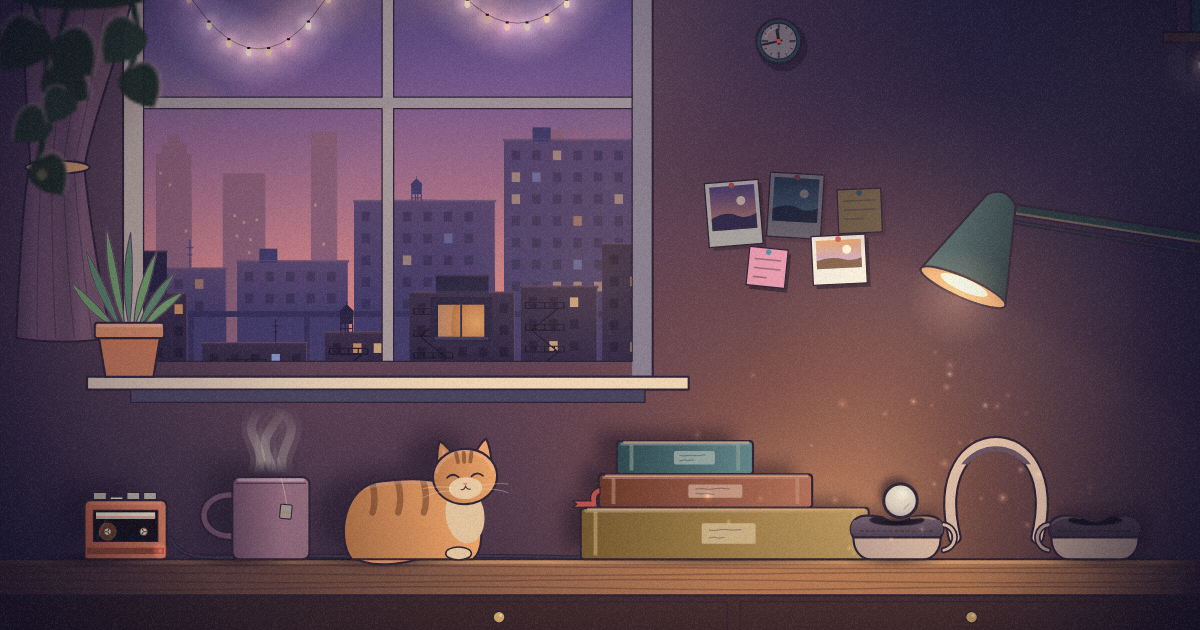
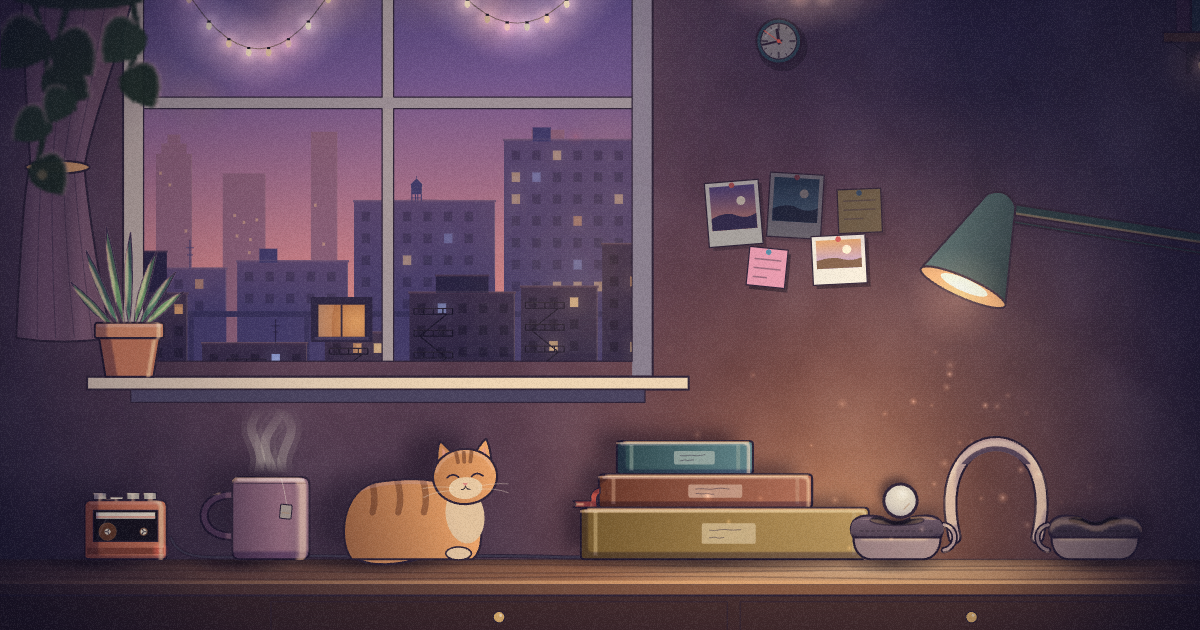
Soft Lamp: the city's lights glow; the kitten in one fall of light
Each lit window across the street has a soft glow, wider in the rain, and
some a blind half down. After a blind A/B review, the kitten is shaded by a
smooth fall of light rather than a cut crescent, which blotched its head and
doubled its legs. The plaster is finer; SOFTLAMP.md's eighty-second pass and
the share cards are updated.

diff --git a/apps/rube/src/shows/versions/soft-lamp/lamp/sky.ts b/apps/rube/src/shows/versions/soft-lamp/lamp/sky.ts
@@ -845,8 +845,30 @@ function skyline(ctx: Ctx, t: number, sky: { low: string; mid: string; dusk: num
   }
 }
 
+/** A soft round of light, one per colour, made once: what a lit window's glow is drawn with. */
+const glows = new Map<string, HTMLCanvasElement>()
+function glowOf(color: string): HTMLCanvasElement {
+  let c = glows.get(color)
+  if (!c) {
+    c = Object.assign(document.createElement('canvas'), { width: 64, height: 64 })
+    const g = c.getContext('2d')!
+    const r = g.createRadialGradient(32, 32, 0, 32, 32, 32)
+    r.addColorStop(0, rgba(color, 0.75))
+    r.addColorStop(0.25, rgba(color, 0.3))
+    r.addColorStop(1, rgba(color, 0))
+    g.fillStyle = r
+    g.fillRect(0, 0, 64, 64)
+    glows.set(color, c)
+  }
+  return c
+}
+
 function city(ctx: Ctx, t: number, sky: { low: string; mid: string; dusk: number }, lens: Lens, sink: (p: number) => Sink): void {
   const n = nightAt(t)
+  // Each lit window's glow round it: a little in clear air, wider and stronger through the rain and the wet glass,
+  // the haze holding the light; none to speak of in the dusk, which outshines it.
+  const halo = (0.35 + 0.65 * Math.max(wetAt(t), 0.6 * cloudAt(t))) * (1 - 0.8 * sky.dusk)
+  const glowing = typeof document !== 'undefined' && halo > 0.02
   const far = mixHex('#2B2850', '#463E6E', sky.dusk)
   const near = mixHex('#17162C', '#2A2445', sky.dusk)
   // The sky's light on the city's edges: the dusk's warmth, then once it is clear the moon's, paler off the snow.
@@ -939,6 +961,21 @@ function city(ctx: Ctx, t: number, sky: { low: string; mid: string; dusk: number
             else {
               ctx.fillStyle = rgba(c, alpha)
               ctx.fillRect(wx, wy, 0.065, 0.075)
+              // Some with a blind part down, or a curtain drawn to one side: a home, not a lit square.
+              const dress = hash(i * 31 + a, b + row * 17, 41)
+              if (!screen && dress < 0.45) {
+                ctx.fillStyle = rgba(mixHex(c, '#3A2436', 0.55), alpha * 0.7)
+                if (dress < 0.25) ctx.fillRect(wx, wy, 0.065, 0.075 * (0.25 + 0.4 * hash(i * 31 + a, b, 42)))
+                else ctx.fillRect(wx + (dress < 0.35 ? 0 : 0.04), wy, 0.025, 0.075)
+              }
+              if (glowing) {
+                const gr = 0.12 + 0.1 * halo
+                ctx.save()
+                ctx.globalCompositeOperation = 'screen'
+                ctx.globalAlpha = Math.min(1, (0.35 + alpha) * halo * (row ? 1 : 0.75))
+                ctx.drawImage(glowOf(c), wx + 0.0325 - gr, wy + 0.0375 - gr, gr * 2, gr * 2)
+                ctx.restore()
+              }
             }
           }
         }

diff --git a/apps/rube/src/shows/versions/soft-lamp/lamp/form.ts b/apps/rube/src/shows/versions/soft-lamp/lamp/form.ts
@@ -31,6 +31,12 @@ export interface Form {
    * not throw a shadow onto what is behind it. The drawing itself if not given.
    */
   solid?: (g: Ctx) => void
+  /**
+   * Shaded by one smooth fall of light across it, toward the lamp to away, in place of the cut crescent: for a thing
+   * whose outline is too intricate for a crescent to read as shadow (the kitten's head on its body, its thin legs). Its
+   * lit edge is left out too.
+   */
+  smooth?: boolean
 }
 
 /** About an outline's width, cells: how far in from the line the lit edge starts. */
@@ -172,6 +178,34 @@ export function formed(ctx: Ctx, name: string, t: number, f: Form, draw: (g: Ctx
     ctx.globalCompositeOperation = op
     ctx.globalAlpha = a
     ctx.drawImage(B, 0, 0, bw, bh, bx, by, w, h)
+  }
+  if (f.smooth) {
+    // Across the thing, from its far side to its side toward the lamp: the shadow's colour, going to nothing past the
+    // middle. Kept to its outline as the crescent is.
+    if (shadowA > 0.004) {
+      const cx = w / 2
+      const cy = h / 2
+      const reach = (Math.abs(lamp.ux) * w + Math.abs(lamp.uy) * h) / 2
+      b.setTransform(1, 0, 0, 1, 0, 0)
+      b.globalCompositeOperation = 'source-over'
+      b.globalAlpha = 1
+      b.clearRect(0, 0, w, h)
+      b.drawImage(L, 0, 0, w, h, 0, 0, w, h)
+      b.globalCompositeOperation = 'source-in'
+      const gr = b.createLinearGradient(cx - lamp.ux * reach, cy - lamp.uy * reach, cx + lamp.ux * reach, cy + lamp.uy * reach)
+      gr.addColorStop(0, CORE)
+      gr.addColorStop(0.55, CORE + '00')
+      gr.addColorStop(1, CORE + '00')
+      b.fillStyle = gr
+      b.fillRect(0, 0, w, h)
+      b.globalCompositeOperation = 'destination-in'
+      for (let i = 0; i < 2; i++) b.drawImage(L, 0, 0, w, h, 0, 0, w, h)
+      ctx.globalCompositeOperation = 'multiply'
+      ctx.globalAlpha = shadowA
+      ctx.drawImage(B, 0, 0, w, h, bx, by, w, h)
+    }
+    ctx.restore()
+    return
   }
   side(lamp.ux * core, lamp.uy * core, CORE, shadowA, 'multiply')
   const ink = INSET * k

diff --git a/apps/rube/src/shows/versions/soft-lamp/lamp/scene.ts b/apps/rube/src/shows/versions/soft-lamp/lamp/scene.ts
@@ -130,7 +130,7 @@ function wall(ctx: Ctx, t: number): void {
   ctx.fillStyle = g
   ctx.fillRect(v.x0 - 1, v.y0 - 1, v.x1 - v.x0 + 2, DESK.y - v.y0 + 1)
   // The plaster: an uneven, painted tone over all of it.
-  plaster(ctx, v.x0 - 1, v.y0 - 1, v.x1 + 1, DESK.y, 0.24)
+  plaster(ctx, v.x0 - 1, v.y0 - 1, v.x1 + 1, DESK.y, 0.2, 2.2)
 }
 
 /** The window's frame, its bars, and the sill. */
@@ -1022,7 +1022,7 @@ export const things = scenery<null>(
     }
     const cl = climbAt(c.t)
     const cx = (CAT.x0 + CAT.chest) / 2 + cl.dx
-    formed(ctx, 'cat', c.t, { box: [cx - 1.5, cl.dy - 1.7, cx + 1.5, cl.dy + 0.15], at: { x: cx, y: cl.dy - 0.35 }, core: 0.22 }, (g) => cat(g, lw, c.t))
+    formed(ctx, 'cat', c.t, { box: [cx - 1.5, cl.dy - 1.7, cx + 1.5, cl.dy + 0.15], at: { x: cx, y: cl.dy - 0.35 }, core: 0.22, smooth: true }, (g) => cat(g, lw, c.t))
     BOOKS.forEach((b, i) => formed(ctx, `book${i}`, c.t, { box: [b.x0 - 0.15, b.top - 0.05, b.x1 + 0.1, b.bottom + 0.03], at: { x: (b.x0 + b.x1) / 2, y: (b.top + b.bottom) / 2 }, core: 0.09 }, (g) => book(g, lw, b, i, c.t)))
     formed(ctx, 'headphones', c.t, { box: [CUP.x - CUP.halfW - 0.1, BAND_TOP - 0.1, FAR_CUP.x + FAR_CUP.halfW + 0.1, 0.03], at: { x: (CUP.x + FAR_CUP.x) / 2, y: -0.25 }, core: 0.15, k: 0.6 }, (g) => headphones(g, lw, c.t))
     lamp(ctx, lw, c.t)

diff --git a/apps/rube/src/shows/versions/soft-lamp/SOFTLAMP.md b/apps/rube/src/shows/versions/soft-lamp/SOFTLAMP.md
@@ -1399,6 +1399,34 @@ The reviews have all been of stills; the show is watched moving. Played through 
      page goes over and the cover shows, warm in the lamp) and the pen is put down; then the lamp goes down. The half
      hour ends with the work done.
 
+### The eighty-second pass: the room in the round
+
+Eighty passes had added to what happens; none had changed how the room is painted. Every prop was a flat fill and a
+line, a clip-art room, where a lofi painting turns each thing in its light. This pass is the painting, everywhere at once:
+
+227. **Form** (`lamp/form.ts`). Each thing on the desk (the Walkman, the mug, the kitten, each book, the headphones, the
+     plant on the sill) is drawn on its own small layer, and its own outline gives it a side away from the lamp, a cel
+     shadow with a soft terminator in the room's cool violet, and toward the lamp a warm lit edge just inside its line.
+     Because it comes from the outline, the kitten is turned in the light in every pose: loafed, stretching, walking to
+     the books, on the sill. Strength follows the lamp where the thing stands, so it comes on with the lamp and eases
+     at the end; the shadow side never quite goes, the window lighting the room too. The mug's is worked from its
+     solid, so its handle's hole throws nothing on it. It costs about a millisecond and a half a frame.
+     The kitten alone is shaded by one smooth fall of light across it instead: a blind A/B review (the old flat frames
+     against these, order shuffled) chose these in three moments of four, the lost one for the kitten, whose head on
+     its body and thin legs made the crescent into blotches on its head and belly and doubled edges on its legs.
+228. **The wall is plaster.** A soft, uneven tone over it (a tiling noise, laid soft-light), so the wall is painted,
+     not a gradient.
+229. **The desk has a top.** The band under everything is the desk's top now, running back to the wall: darker where it
+     meets the wall, a front lip with the light along its edge, and the lamp's pool lying on the wood as an oval round
+     where the shade looks. Each thing's shadow lies forward onto it.
+230. **The glass gives back only what is lit.** The person in the window was a pale ghost, her sweater lighter than the
+     night outside, which no reflection can be. Now it is what the lamp lights: the lamp's side of her face and her
+     near shoulder, the page, the lamp; her far side and her hair hardly show. Her stretch's arms, a hard pale outline
+     against the faint body, are lit the same way.
+231. **The city's lights glow.** Each lit window across the street has a soft round of light about it, small in clear
+     air, wider in the rain and the haze, none in the dusk; and some have a blind half down or a curtain to one side,
+     so they read as rooms.
+
 ## Judgment calls for Stephen
 
 - **The near pothos.** A framing device, the one thing nearer than the room; it is one call (`foreground`, in
@@ -1438,6 +1466,8 @@ The reviews have all been of stills; the show is watched moving. Played through 
   sixty-fourth pass): the closer looks are rarer, the whole-desk looks commoner. Holding the wide room most of the time
   would go further, the machine small in it.
 - **The grain.** At 55% of a light tile; it can be turned down, or off, in `lamp/decor.ts`.
+- **The form.** How deep each thing's shadow side goes is one number a thing (`core`, where `scene.ts` calls `formed`),
+  and how dark it is two (`CORE` and `shadowA`, `lamp/form.ts`). The plaster is one call (`plaster`, in `wall`).
 
 ## Checks
 
